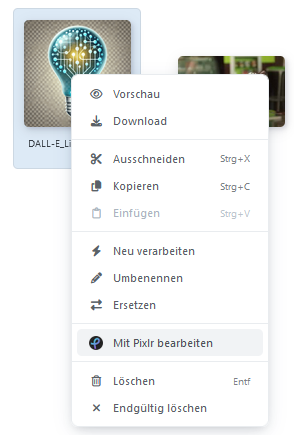
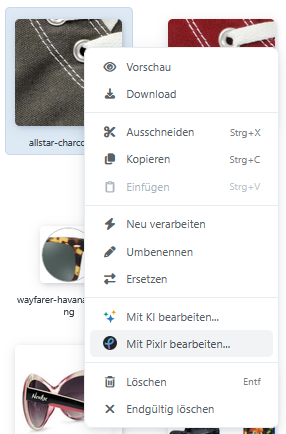
Updated Pixlr entry (de, en)

diff --git a/en/manage/plugins-themes/pixlr.md b/en/manage/plugins-themes/pixlr.md
@@ -2,36 +2,19 @@
 
 Allows you to create and edit images directly in the Media Manager.
 
-{% hint style="warning" %}
-Missing screenshot
-{% endhint %}
-
-## Configuration of the Pixlr Plugin
-
-| **Option** | **Description** |
-| :--- | :--- |
-| Client Key | |
-| Client Secret | |
-| Use advanced editor | |
-| Preselect "Save as copy" | |
-| Background color | |
-| Accent color | |
+![The Pixlr editor](../../.gitbook/assets/module_pixlr_editor.png)
 
 ## Usage in Media Manager
 
 Pixlr functionality is integrated into the Media Manager starting with Smartstore v6. To access it, navigate to **CMS** → **Media** in the backend. We offer two ways to use Pixlr:
 
-* To create new content:
+* With the option **Create with Pixlr**, which appears after right-clicking a folder, you can create new content.
 
-{% hint style="warning" %}
-Missing screenshot
-{% endhint %}
+  ![New content - Create with Pixlr](../../.gitbook/assets/module_pixlr_mediamanager_new.png)
 
-* To modify existing content:
+* Editing can be started by right-clicking an image and selecting **Edit with Pixlr**.
 
-{% hint style="warning" %}
-Missing screenshot
-{% endhint %}
+  ![Existing content - Edit with Pixlr](../../.gitbook/assets/module_pixlr_mediamanager_edit.png)
 
 Both variants open the Pixlr editor, which allows for a multitude of editing possibilities.
 
@@ -41,6 +24,15 @@ Since the editor is provided by Pixlr itself, we cannot list all functions or an
 
 After you have saved the image in Pixlr, a Smartstore dialog appears. This offers the option to overwrite the old file or to create a new file under a new name. After you have made a selection, the edited image is located in the Media Manager and can be used anywhere.
 
-{% hint style="warning" %}
-Missing screenshot
-{% endhint %}
+## Configuration
+
+![Plugin configuration](../../.gitbook/assets/module_pixlr_configuration.png)
+
+| **Option** | **Description** |
+| --- | --- |
+| Client key | Sets the Pixlr client key to be used. |
+| Client secret | Sets the Pixlr client secret to be used. |
+| Editor | Determines whether the extended Pixlr editor should be used. |
+| Preselect “Save as copy” | By default, selects the option “Save as copy” in the save dialog. |
+| Background color | Sets the editor’s background color (workspace). |
+| Accent color | Sets the accent color for certain elements in the editor (e.g., buttons and tooltips). |

diff --git a/de/benutzer-handbuch/plugins-designs/pixlr.md b/de/benutzer-handbuch/plugins-designs/pixlr.md
@@ -8,11 +8,11 @@ Bietet die Möglichkeit Bilder direkt im MedienManager zu Erstellen und Bearbeit
 
 Die Pixlr Funktionalität ist ab Smartstore v6 im MedienManager integriert. Dazu navigieren Sie im Backend zu **CMS** &rarr; **Medien**. Wir bieten zwei Möglichkeiten an, Pixlr zu benutzen:
 
-* Zur Erstellung von neuen Inhalten:
+* Mit der Option **Mit Pixlr erstellen**, die sich nach einem Rechtsklick auf einen Ordner öffnet, können neue Inhalte erstellt werden.
 
   ![Neue Inhalte - Mit Pixlr erstellen](../../.gitbook/assets/module_pixlr_medienmanager_neu.png)
 
-* Zur Modifizierung vorhandener Inhalte:
+* Die Bearbeitung kann durch einen Rechtsklick auf ein Bild und der Auswahl von **Mit Pixlr bearbeiten** gestartet werden.
 
   ![Alte Inhalte - Mit Pixlr bearbeiten](../../.gitbook/assets/module_pixlr_medienmanager_bearbeiten.png)
 
